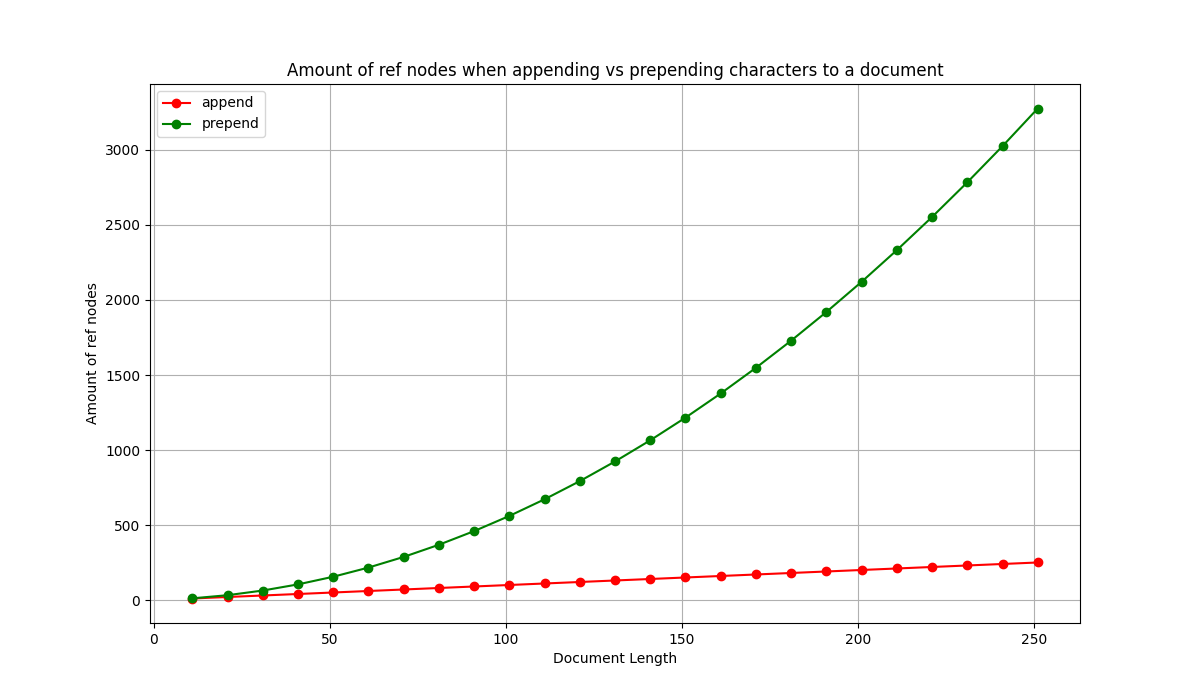
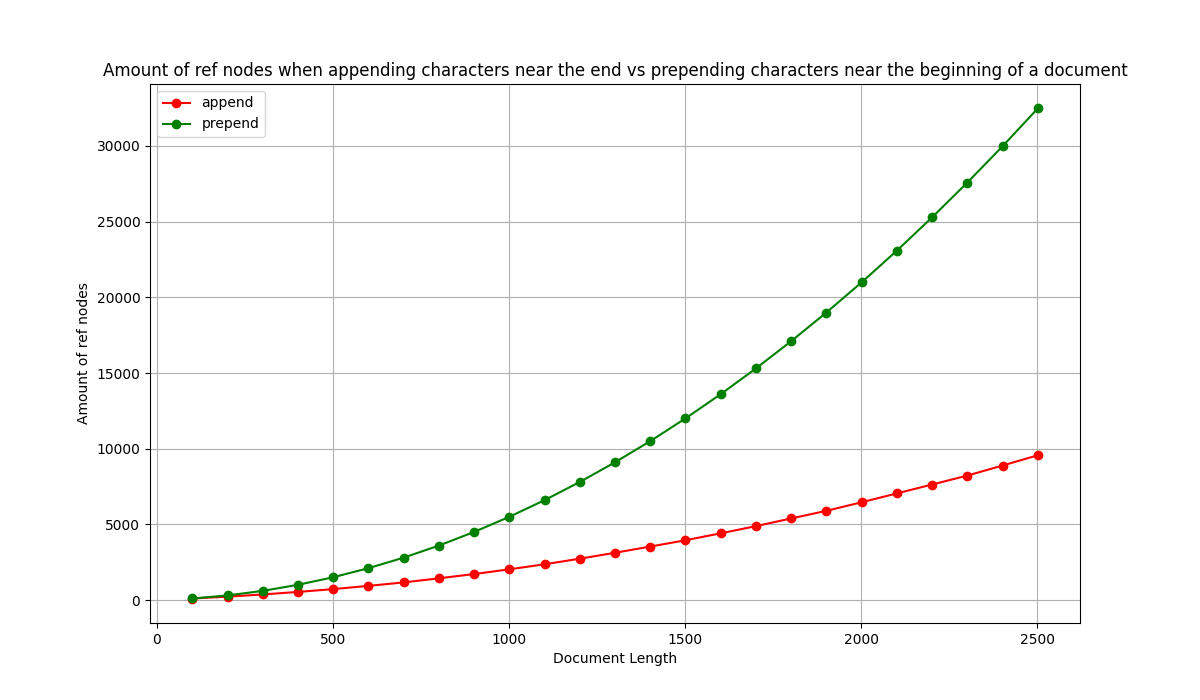
update script

diff --git a/rust/examples/document_size.rs b/rust/examples/document_size.rs
@@ -3,7 +3,8 @@ use musli::{Decode, Encode};
 use std::fmt::Display;
 
 const CYCLES: usize = 25;
-const CHAR_INSERTION_COUNT_PER_CYCLE: usize = 10;
+const CHAR_INSERTION_COUNT_PER_CYCLE: usize = 100;
+const INSERTION_POSITION_PERCENTAGE: usize = 25;
 
 #[derive(Clone, Decode, Encode, Hash, Default, PartialEq, Eq, Debug)]
 struct Document {
@@ -111,11 +112,15 @@ async fn main() -> Result<()> {
         let mut document = replica.latest_object::<Document>().await?.unwrap();
         for _ in 0..CYCLES {
             for _ in 0..CHAR_INSERTION_COUNT_PER_CYCLE {
-                if insert_at_start {
-                    document.insert(0, 'a');
+                let doc_len = document.len();
+                let insert_pos = if insert_at_start {
+                    // Insert in the first INSERTION_POSITION_PERCENTAGE%
+                    rand::random::<usize>() % (doc_len * INSERTION_POSITION_PERCENTAGE / 100 + 1)
                 } else {
-                    document.append('a');
-                }
+                    // Insert in the last INSERTION_POSITION_PERCENTAGE%
+                    doc_len - (rand::random::<usize>() % (doc_len * INSERTION_POSITION_PERCENTAGE / 100 + 1))
+                };
+                document.insert(insert_pos, 'a');
             }
             replica.commit_object(&document).await?;
             let table_counts = replica.store().table_counts().await?;

diff --git a/rust/diagrams/plot_size.py b/rust/diagrams/plot_size.py
@@ -20,7 +20,7 @@ for (filename, name), color in zip(variants, colors):
 
 plt.xlabel('Document Length')
 plt.ylabel('Amount of ref nodes')
-plt.title('Amount of ref nodes when appending vs prepending characters to a document')
+plt.title('Amount of ref nodes when appending characters near the end vs prepending characters near the beginning of a document')
 plt.legend()
 plt.grid(True)
 plt.show()
